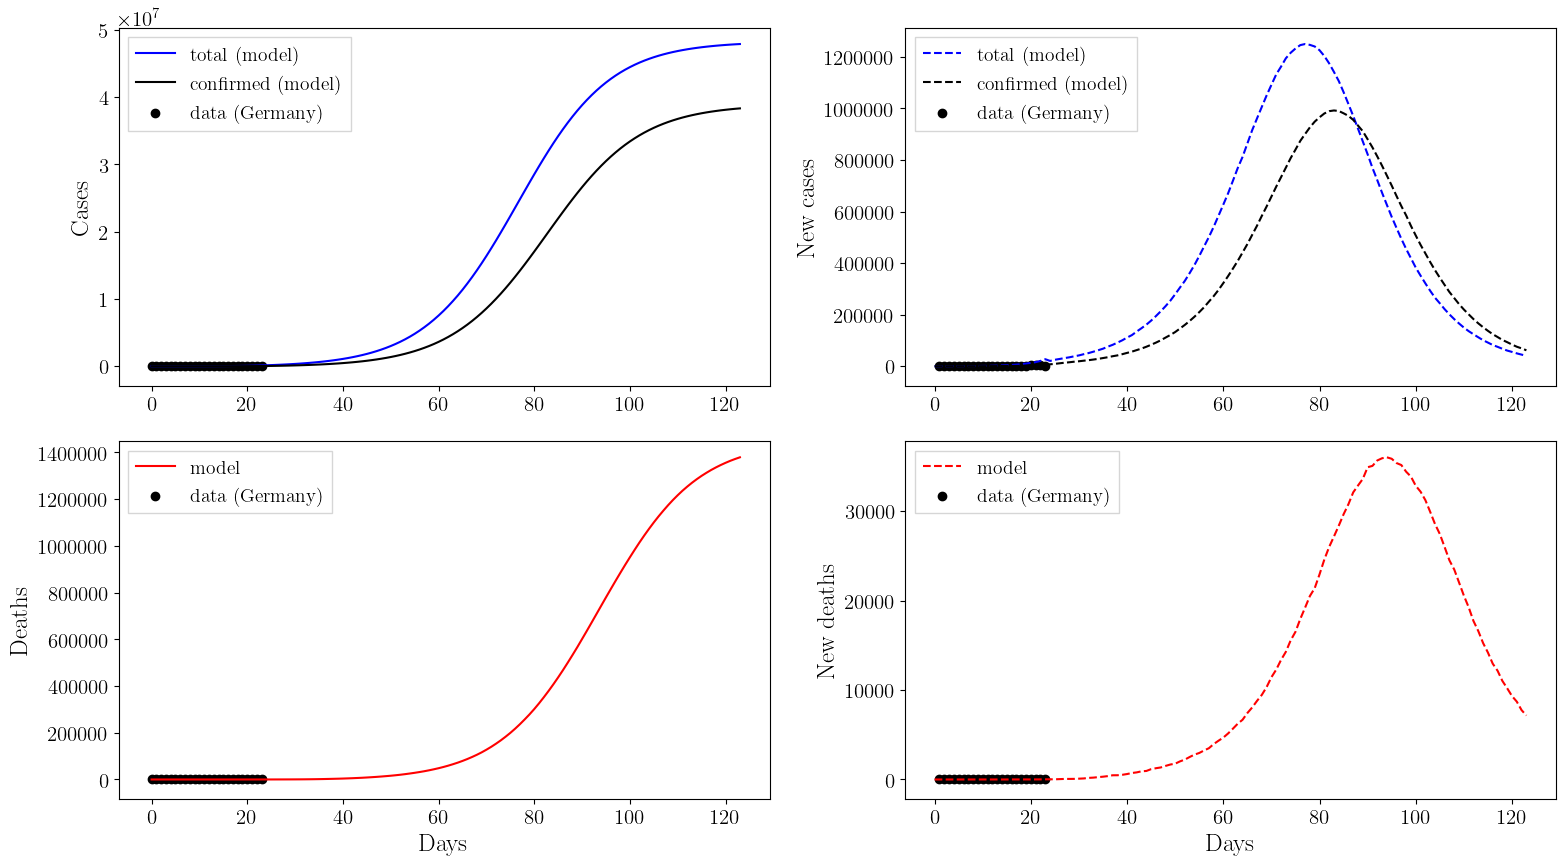
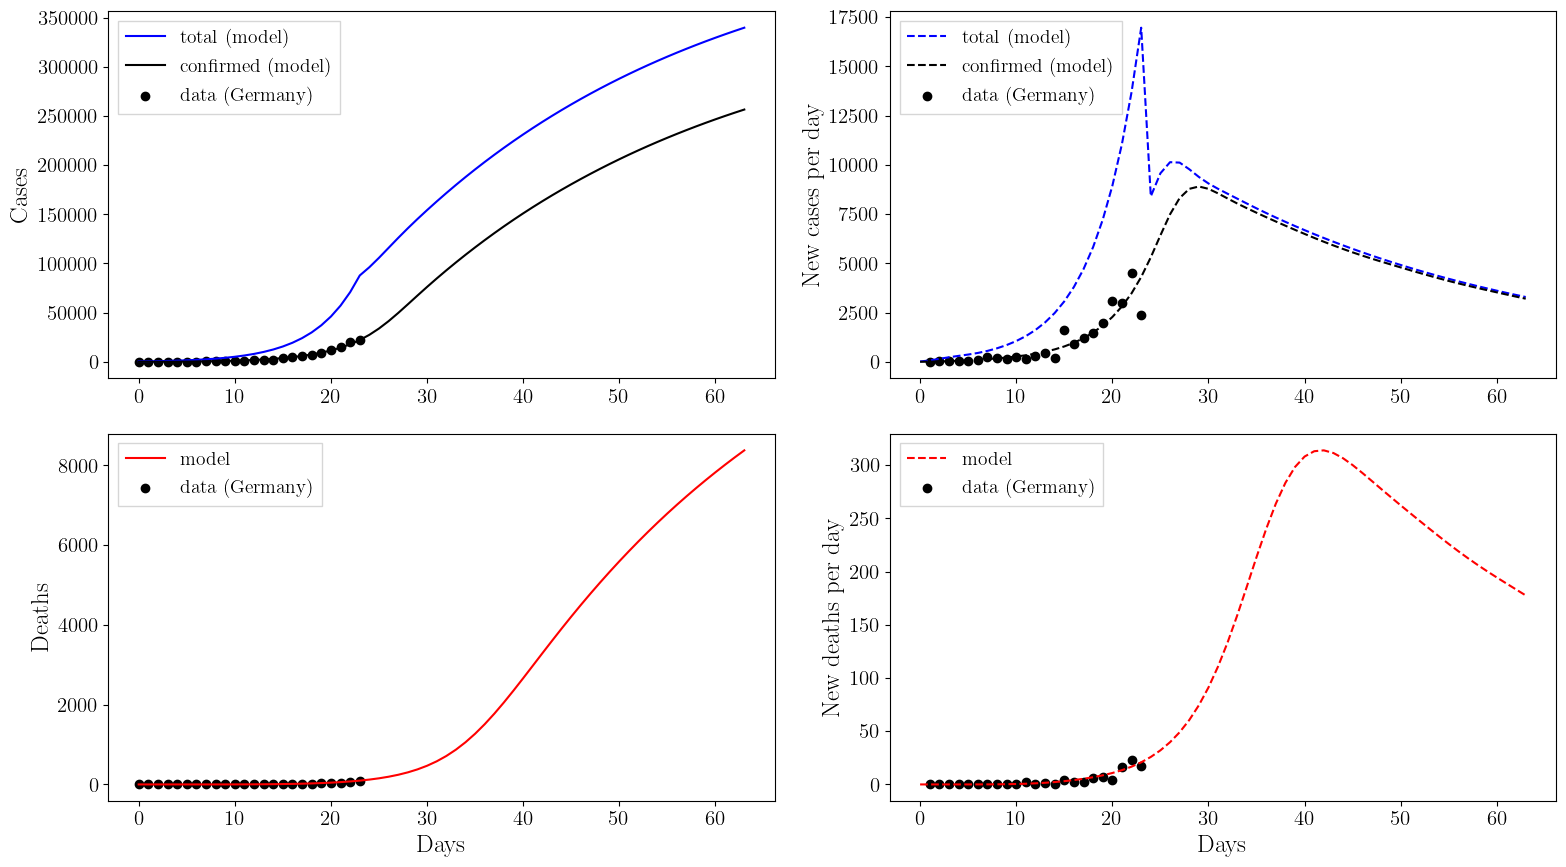
Implement Likelihood and fit model current data

diff --git a/fit_data.py b/fit_data.py
@@ -2,8 +2,9 @@ import os
 import numpy as np
 import matplotlib.pyplot as plt
 import matplotlib as mpl
-from scipy.optimize import curve_fit
+from scipy.optimize import curve_fit, minimize
 
+from train_model import likelihood
 from models import DayDrivenPandemie
 from load_data import load_data
 from latex_style import with_latex
@@ -15,20 +16,76 @@ data = load_data()
 os.makedirs('img', exist_ok=True)
 
 confirmed_data, dead_data = data.to_numpy()[36:, 0] - 16, data.to_numpy()[36:, 1]
+confirmed_day_data, dead_day_data = np.diff(confirmed_data), np.diff(dead_data)
+mask1, mask2 = confirmed_day_data > 0, dead_day_data > 0
 days = np.arange(len(confirmed_data))
 
+
+def sample_likelihood(pars):
+    infected, infected_confirmed = np.zeros(days.size), np.zeros(days.size)
+    infected_day = np.zeros(days.size)
+    cured, dead = np.zeros(days.size), np.zeros(days.size)
+    world = DayDrivenPandemie(n_days=days.size,
+                              n_p=pars[0],
+                              attack_rate=0.15,
+                              detection_rate=0.8,
+                              lethality=pars[1],
+                              infected_start=int(pars[2]),
+                              contagious_start=int(pars[2]*2/3),
+                              confirmed_start=confirmed_data[0])
+
+    for i in days:
+        world.update()
+        infected[i], infected_confirmed[i] = world.infected_total, world.confirmed_total
+        infected_day[i], dead[i] = world.infected_day, world.dead
+
+    return -likelihood(np.diff(infected_confirmed)[mask1], confirmed_day_data[mask1], np.diff(dead)[mask2], dead_day_data[mask2])
+
+lowest_like = np.inf
+n_p_candidates = np.linspace(13, 16, num=10)
+lethality_candidates = np.linspace(1e-3, 0.04, num=10)
+infected_start_candidates = np.linspace(50, 500, num=10)
+likelihoods = np.zeros((len(n_p_candidates), len(lethality_candidates), len(infected_start_candidates)))
+for i, n in enumerate(n_p_candidates):
+    for j, l in enumerate(lethality_candidates):
+        for k, i_s in enumerate(infected_start_candidates):
+            like = sample_likelihood([n, l, i_s])
+            print(n, l, i_s, like)
+            likelihoods[i, j, k] = like
+            if like < lowest_like:
+                lowest_like = like
+                in_idx = (i, j, k)
+
+like_proj = np.min(likelihoods, axis=1)
+fig, ax = plt.subplots(1, 1)
+ax.imshow(np.transpose(like_proj))
+plt.xticks(np.arange(len(n_p_candidates)), np.round(n_p_candidates, 1))
+plt.yticks(np.arange(len(infected_start_candidates)), np.round(infected_start_candidates, 1))
+ax.set_xlabel("np")
+ax.set_ylabel("infected start")
+
+like_proj = np.min(likelihoods, axis=2)
+fig, ax = plt.subplots(1, 1)
+ax.imshow(np.transpose(like_proj))
+plt.xticks(np.arange(len(n_p_candidates)), np.round(n_p_candidates, 1))
+plt.yticks(np.arange(len(lethality_candidates)), np.round(lethality_candidates, 4))
+ax.set_xlabel("np")
+ax.set_ylabel("lethality")
+plt.show()
+
+i, j, k = min_idx[0], min_idx[1], min_idx[2]
 pred_len = 40
 days_pred = np.arange(days.size + pred_len)
 infected, infected_confirmed = np.zeros(days_pred.size), np.zeros(days_pred.size)
 infected_day = np.zeros(days_pred.size)
 cured, dead = np.zeros(days_pred.size), np.zeros(days_pred.size)
 world = DayDrivenPandemie(n_days=days.size+pred_len,
-                          n_p=17,
+                          n_p=n_p_candidates[i],
                           attack_rate=0.15,
                           detection_rate=0.8,
-                          lethality=0.03,
-                          infected_start=250,
-                          contagious_start=200,
+                          lethality=lethality_candidates[j],
+                          infected_start=int(infected_start_candidates[k]),
+                          contagious_start=int(infected_start_candidates[k]*2/3),
                           confirmed_start=confirmed_data[0])
 world.change_n_p(days.size, 0.9/0.15)
 

diff --git a/models.py b/models.py
@@ -135,10 +135,10 @@ class DayDrivenPandemie(object):
 
         self.day = 0
         self.n_days = n_days
-        self.contagious_p_day = np.zeros(n_days).astype(np.uint)
-        self.death_p_day = np.zeros(n_days).astype(np.uint)
-        self.cured_p_day = np.zeros(n_days).astype(np.uint)
-        self.detect_p_day = np.zeros(n_days).astype(np.uint)
+        self.contagious_p_day = np.zeros(n_days)
+        self.death_p_day = np.zeros(n_days)
+        self.cured_p_day = np.zeros(n_days)
+        self.detect_p_day = np.zeros(n_days)
 
         self.infected, self.contagious = infected_start, contagious_start
         self.infected_total, self.confirmed_total = infected_start, confirmed_start
@@ -147,11 +147,8 @@ class DayDrivenPandemie(object):
         self._assign_timing(infected_start)
 
     def _count_p_days(self, n, t):
-        if n < 1000:
-            return np.bincount(self.day + np.random.poisson(t, size=n), minlength=self.n_days)[:self.n_days].astype(np.uint)
-        else:
-            p_days = np.rint(n * poisson.pmf(np.arange(self.n_days - self.day), mu=t))
-            return np.pad(p_days, (self.day, 0), mode='constant').astype(np.uint)
+        p_days = n * poisson.pmf(np.arange(self.n_days - self.day), mu=t)
+        return np.pad(p_days, (self.day, 0), mode='constant')
 
     def _assign_timing(self, n):
         n_death = np.random.binomial(n, self.lethality)
@@ -164,7 +161,8 @@ class DayDrivenPandemie(object):
     def infect(self):
         immune = self.infected + self.cured
         n_eff = self.n_p * (self.total_population - immune) / self.total_population
-        self.infected_day = np.sum(np.random.poisson(n_eff*self.attack_rate, size=self.contagious_p_day[self.day]))
+        self.infected_day = self.contagious_p_day[self.day] * n_eff*self.attack_rate
+        # self.infected_day = np.sum(np.random.poisson(n_eff*self.attack_rate, size=self.contagious_p_day[self.day]))
         self.infected += self.infected_day
         self.infected_total += self.infected_day
         self._assign_timing(self.infected_day)

diff --git a/train_model.py b/train_model.py
@@ -1,0 +1,9 @@
+import numpy as np
+import scipy as sp
+from scipy.stats import poisson
+
+
+def likelihood(cases, cases_expect, deaths, deaths_expect):
+    likelihood_cases = np.log10(poisson.pmf(cases_expect, mu=cases))
+    likelihood_deaths = np.log10(poisson.pmf(deaths_expect, mu=deaths))
+    return np.sum(likelihood_cases) + np.sum(likelihood_deaths)
